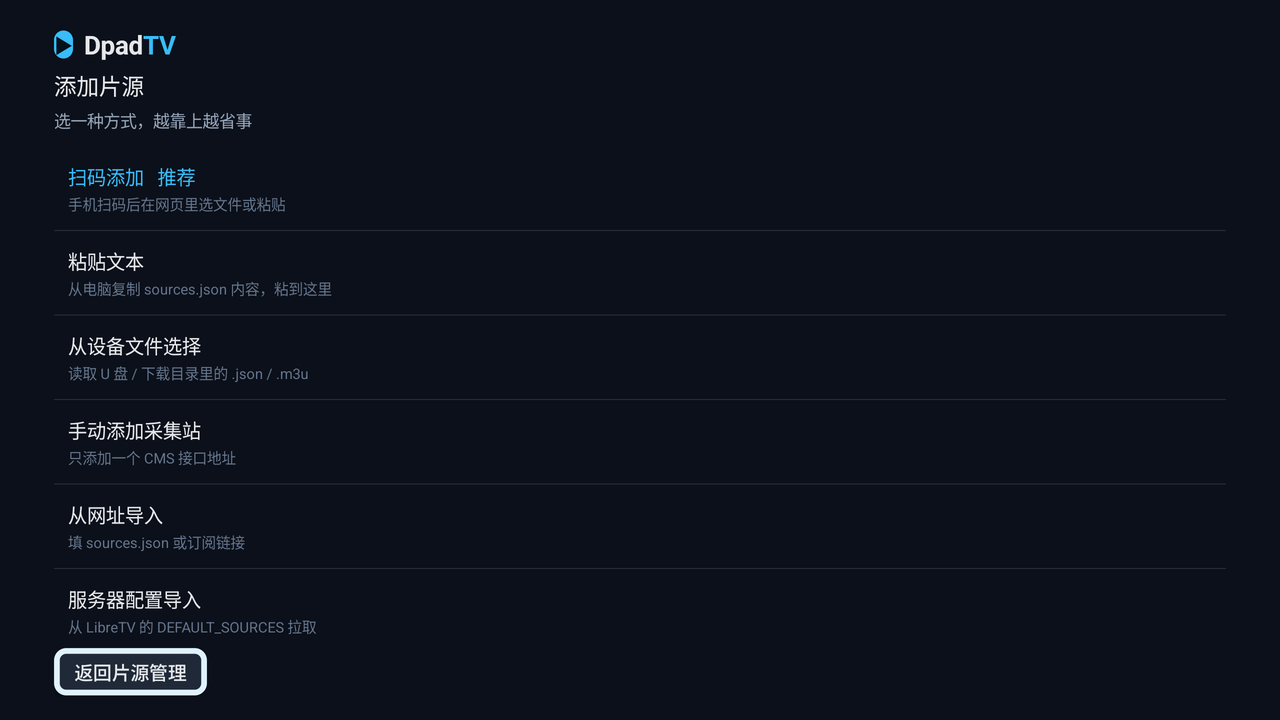
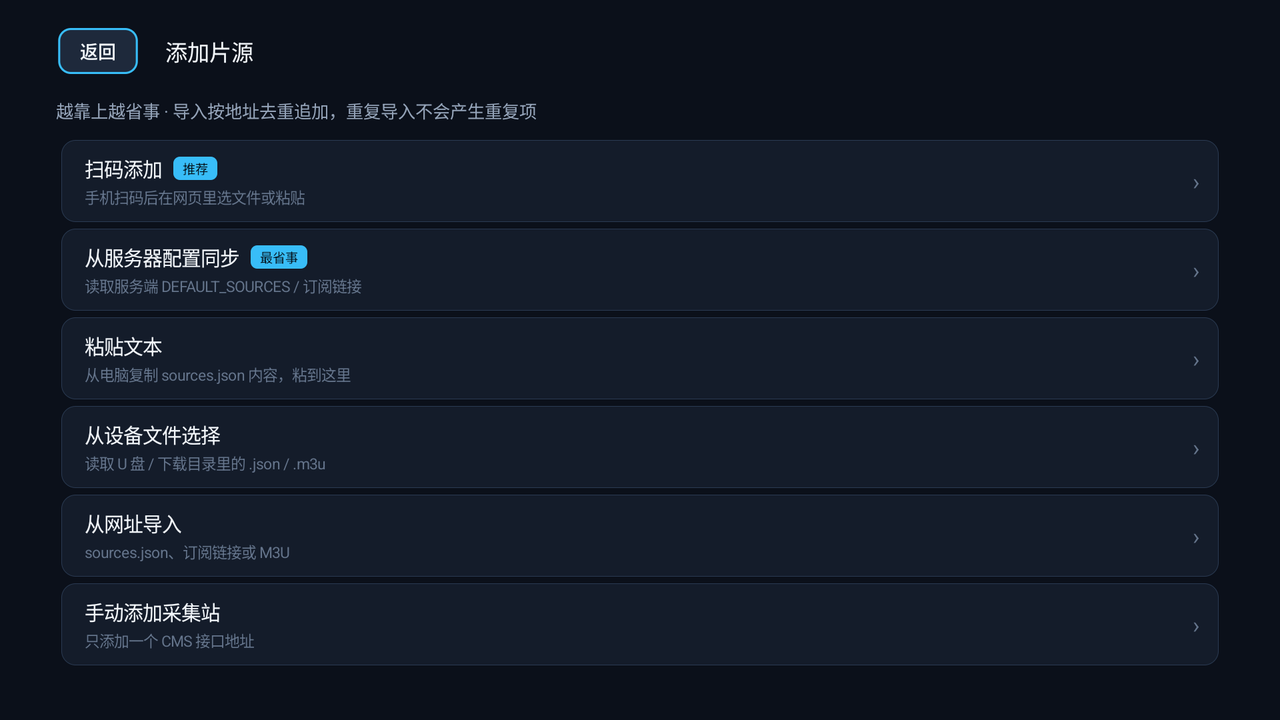
docs(readme): 换新截图，补直播与片源管理说明
截图重拍（首页多了「动漫」，添加片源页的入口顺序也变了），新增搜索、
直播频道、直播播放、片源管理、设置五张；涉及片源名称与服务器地址的
部分已打码。

README 同步补上直播小节、缓冲策略与断流自愈、遥控器分按键表，并纠正
「ExoPlayer 没有 FLV 解封装器」的错误说法。

本机用的一次性脚本（截图打码、捐赠码裁切）不入库。

diff --git a/README.md b/README.md
@@ -10,22 +10,33 @@
 
 **浏览与搜索**
 
-- **首页**：豆瓣排行榜海报网格，电影 / 剧集 / 综艺三个分类，滚动到底自动加载下一批
+- **首页**：豆瓣排行榜海报网格，电影 / 剧集 / 动漫 / 综艺四个分类，滚动到底自动加载下一批
 - **热门搜索**：搜索页展示三类榜单前 10 名，点一下直接搜
 - **搜索**：多源聚合，按片名分组显示来源数，可按来源筛选，记住搜索历史
-- **详情**：封面、简介、集数、多来源切换（当前源标 ●）
+- **详情**：封面、简介（可展开）、集数、多来源切换（当前源标 ●）
 
 **片源管理**
 
-- **六种导入方式**：**手机扫码**（可上传文件）/ 粘贴文本 / 设备文件 / 从网址导入 / 手动添加 / 服务器配置
+- **六种导入方式**：**手机扫码**（可上传文件）/ 从服务器配置同步（DEFAULT_SOURCES 与订阅链接）/ 粘贴文本 / 设备文件 / 从网址导入（sources.json、订阅链接或 M3U）/ 手动添加
 - **单行状态列表**：启用状态、完整地址、连通性结果一目了然
 - **全部测试**：一键并发检测所有源，结果持久保存，失效源标红
 - **逐条管理**：启用停用（长按一步切换）、改名称地址、上下移动、测试、删除
 - **首页按钮可排序、可隐藏**（设置 → 首页按钮排序）
 
+**直播**
+
+- **多源订阅**：M3U 订阅可加多个，随时切换（扫码 / 订阅链接 / 服务器配置都能导入）
+- **分组与筛选**：按 M3U 的 `group-title` 分组，可只看收藏、只看可用
+- **测活**：一键实测所有频道，标题栏给出「N/M 个频道 · 死链 K」，正常频道标绿点
+- **收藏**：焦点停在频道上，右键收藏 ★、左键取消，不用先选中再按按钮
+- **换台**：播放时左右键切上一个 / 下一个频道，屏幕上显示「频道名 · 序号 / 总数」
+- 直播不记播放进度、不弹「从上次位置继续」，倍速恒为 1.0
+
 **播放**
 
-- ExoPlayer（Media3）内核，HLS 直连
+- Media3（ExoPlayer）内核，HLS 直连
+- **缓冲策略分点播 / 直播两套**：短窗口直播（例如只有 3 个分片、18 秒）贴边播，不套用点播的 20s/60s
+- **断流自愈**：直播出错自动回到直播边缘重连（最多 8 次），不会停在错误页
 - **续播**：按播放地址记位置，播过 5 秒起生效，阈值可调
 - **自动连播**：整季作为播放列表，一集放完自动进下一集（可关）
 - **倍速**：X0.50 ~ X2.00，记住上次选择
@@ -37,7 +48,6 @@
 
 **其它**
 
-- **直播**：M3U 多源、按分组筛选
 - **继续观看**：本地观看历史（封面 + 进度），缺封面时自动按片名补齐
 - **清理缓存**：图片 / 历史 / 搜索记录 / 播放进度 / 磁盘缓存，一次清完
 - **更新检测**：启动时检查 GitHub Releases（6 小时内不重复请求）
@@ -47,13 +57,31 @@
 
 ## 截图
 
+> 截图里的片源名称、服务器地址与直播源都已打码。
+
 ### 首页
 
-![首页](docs/screenshot-home.png)
+![首页](docs/screenshot-home.jpg)
 
-### 详情与集数选择
+### 搜索
 
-![详情](docs/screenshot-detail.png)
+![搜索](docs/screenshot-search.png)
+
+### 详情与来源切换
+
+![详情](docs/screenshot-detail.jpg)
+
+### 直播频道
+
+![直播](docs/screenshot-live.png)
+
+### 直播播放（左右键换台）
+
+![直播播放](docs/screenshot-player.jpg)
+
+### 片源管理（状态列表）
+
+![片源管理](docs/screenshot-sources.png)
 
 ### 添加片源
 
@@ -62,6 +90,10 @@
 ### 扫码添加片源
 
 ![扫码](docs/screenshot-qr.png)
+
+### 设置
+
+![设置](docs/screenshot-settings.png)
 
 ## 遥控器操作
 
@@ -73,17 +105,25 @@
 | OK | 进入 / 执行 |
 | 菜单键 | 打开设置 |
 
+**直播频道列表**
+
+| 按键 | 操作 |
+|---|---|
+| 上下 | 选频道 |
+| 右键 / 左键 | 收藏 / 取消收藏（★） |
+| OK | 播放该频道 |
+
 **播放页**
 
 | 按键 | 操作 |
 |---|---|
 | OK | 暂停 / 播放 |
-| ← → | 快退 / 快进（短按 10 秒，按住 15 秒连发） |
-| ↑ | 倍速菜单 |
+| ← → | 点播：快退 / 快进（短按 10 秒，按住连发）；直播：上一个 / 下一个频道 |
+| ↑ | 倍速菜单（直播不显示） |
 | ↓ / 菜单键 | 呼出底部操作栏 |
 | 返回 | 退出播放 |
 
-**底部操作栏**：下集 · 上集 · 刷新 · 重播 · 倍速 · 解码 · 比例
+**底部操作栏**：点播为「上集 / 下集 / 倍速 / 解码 / 比例 / 重播 / 刷新」，直播为「上一频道 / 下一频道 / 解码 / 比例 / 重播 / 刷新」。
 
 ## 安装
 
@@ -94,8 +134,8 @@
 ## 首次配置
 
 1. 填服务器地址与访问密码，点「连接并登录」
-2. 进「片源管理」添加采集站
-3. 回首页搜片名
+2. 进「片源管理」添加采集站；要看电视直播就去「设置 → 直播源」加一条 M3U 订阅
+3. 回首页搜片名，或者直接进「直播」
 
 > 片源只支持 Apple CMS **JSON** 接口（`https://xxx/api.php/provide/vod`），`/at/xml/` 这类 XML 通道不支持。
 
@@ -130,13 +170,13 @@ node tools/e2e-api.mjs --url http://你的NAS:8899 --password 你的密码
 
 ## 已知限制
 
-- **H.265 片源**能否播取决于 SoC 硬解，不支持时会明确提示"解码失败"
-- 直播只支持 HLS / TS / 渐进式，**FLV 不支持**（ExoPlayer 没有 FLV 解封装器）
-- 直播 EPG 未实现
+- **H.265 / 4K 片源**能否播取决于 SoC 硬解，不支持时会明确提示"解码失败"
+- **短窗口直播**（只有两三个分片、十几秒的源）本身缓冲余量就小，网络抖一下会短暂转圈；播放器已经贴着直播边缘播，不会像点播那样攒几十秒
+- 直播以 HLS 为主，**FLV / RTMP 源没有适配**
+- 直播 EPG 未实现（只按 M3U 里的分组筛）
 - 观看历史 / 搜索历史都是**本机**的，多设备不同步
 - 不预加载下一集（磁盘缓存只缓存已看过的分片）
 - 音轨切换、字幕选择尚未做
-- 首页顶部按钮栏的左右键已限制在栏内（不会跑到海报区）
 - 系统精简掉文件选择器的设备上，「从设备文件选择」可能读不到文件，改用扫码或粘贴
 
 ## 支持作者
